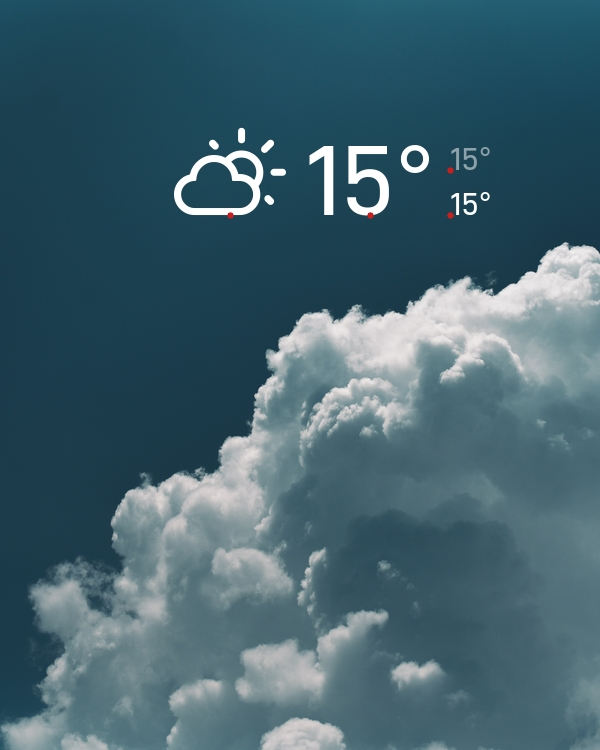
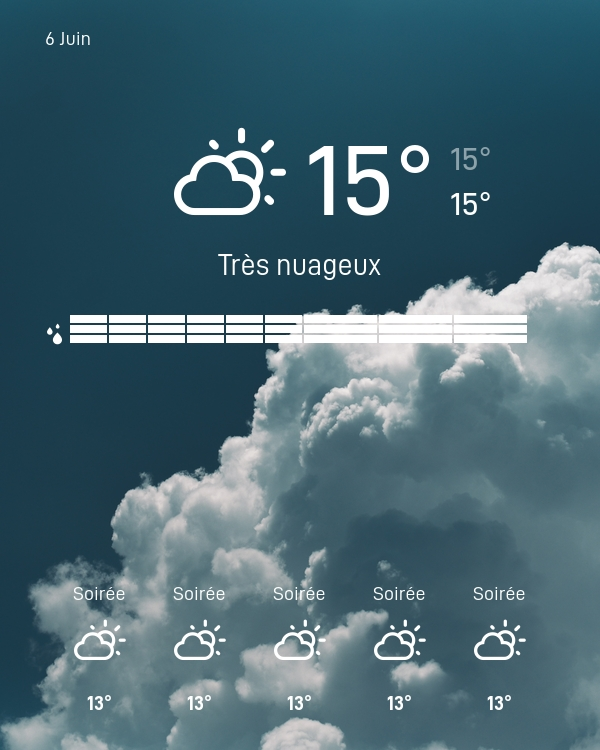
feat(Visual)

diff --git a/image.php b/image.php
@@ -2,7 +2,6 @@
 
 
 
-
 /* /////////////////////////////////
 
     LOAD BACKGROUND IMAGE 
@@ -72,10 +71,6 @@ function image_cover(Imagick $image, $width, $height) {
 
 
 
-
-
-
-
 /* /////////////////////////////////
 
     WRITE TEXT
@@ -86,15 +81,18 @@ function image_cover(Imagick $image, $width, $height) {
 
 $white = "rgba(255, 255, 255,1)";
 $whiteTransp = "rgba(255, 255, 255,0.5)";
-$fontDINNNext = "fonts/DINNextLTPro-Medium.ttf";
+$fontDINNNext = "fonts/D-DIN.ttf";
+$fontDINNNextBold = "fonts/D-DIN-Bold.ttf";
 $fontDINNExp = "fonts/D-DINExp.ttf";
 $fontWeatherIcon = "fonts/weathericons-regular-webfont.ttf";
 
 
-
-
 // Main temperature
 $im = WriteText($im, "15°", $white, 100, $fontDINNExp, 370, 215,\Imagick::ALIGN_CENTER);
+// Main temperature text
+$im = WriteText($im, "Très nuageux", $white, 30, $fontDINNNext, 300, 275,\Imagick::ALIGN_CENTER);
+
+
 // minTemp
 $im = WriteText($im, "15°", $whiteTransp, 32, $fontDINNExp, 450, 170,\Imagick::ALIGN_LEFT);
 // maxTemp
@@ -103,9 +101,80 @@ $im = WriteText($im, "15°", $white, 32, $fontDINNExp, 450, 215,\Imagick::ALIGN_
 // Main Weather
 $im = WriteText($im, "", $white, 80, $fontWeatherIcon, 230, 215,\Imagick::ALIGN_CENTER  );
 
+// Date
+$im = WriteText($im, "6 Juin", $white, 20, $fontDINNNext, 45, 45,\Imagick::ALIGN_LEFT);
 
 
 
+
+$position = 100;
+$width = 100;
+// Weathers du bas 
+for( $i = 0; $i < 5 ;$i++) {
+
+    //titre
+    $im = WriteText($im, "Soirée", $white, 20, $fontDINNNext, $position, 600,\Imagick::ALIGN_CENTER);
+    // icone
+    $im = WriteText($im, "", $white, 37, $fontWeatherIcon, $position, 660,\Imagick::ALIGN_CENTER);
+    //temp
+     $im = WriteText($im, "13°", $white, 20, $fontDINNNextBold, $position, 710,\Imagick::ALIGN_CENTER);
+    $position += $width; // width = 120
+}
+
+
+
+
+
+/* /////////////////////////////////
+
+    Rain Cast
+
+*/ /////////////////////////////////
+
+    // icone
+    $im = WriteText($im, "", $white, 36, $fontWeatherIcon, 55, 350,\Imagick::ALIGN_CENTER);
+
+$leftMargin = 70;
+$topPosition = 335;
+$width = 36;
+$height = 7;
+$margin = 3;
+
+for( $i = 0; $i < 6 ;$i++) {
+    $draw = new \ImagickDraw();
+    $draw->setFillColor($white);
+    $position = $leftMargin + $i * $width + ($i * $margin);
+    for($x = 0; $x <3; $x++) {
+        $newTopPosition =  $topPosition - ($x * $height ) - ( $x * $margin);
+        $draw->rectangle($position, $newTopPosition, $position + $width , $newTopPosition+$height);
+    }
+    $im->drawImage($draw);
+}
+
+
+
+$width = 72;
+$leftMargin = 304;
+for( $i = 0; $i < 3 ;$i++) {
+    $draw = new \ImagickDraw();
+    $draw->setFillColor($white);
+    $position = $leftMargin + $i * $width + ($i * $margin);
+    for($x = 0; $x <3; $x++) {
+        $newTopPosition =  $topPosition - ($x * $height ) - ( $x * $margin);
+        $draw->rectangle($position, $newTopPosition, $position + $width , $newTopPosition+$height);
+    }
+    $im->drawImage($draw);
+
+}
+
+
+
+
+// Text 
+for( $i = 0; $i < 4 ;$i++) {
+     $im = WriteText($im, "+10 min", $white, 20, $fontDINNNext, $position, 710,\Imagick::ALIGN_CENTER);
+
+}
 
 
 
@@ -125,8 +194,6 @@ $im->writeImageFile( $fileHandle);
  
 
 
-
-
 function WriteText($image, $text, $fillColor, $fontSize, $font,$x, $y, $align ) {
 
     $draw = new \ImagickDraw();
@@ -137,8 +204,9 @@ function WriteText($image, $text, $fillColor, $fontSize, $font,$x, $y, $align ) 
     $draw->setTextAlignment($align);
     $image->annotateimage($draw, $x, $y, 0, $text);
 
-    $draw->setFillColor("rgb(200, 32, 32)");
-    $draw->circle($x, $y, $x+2, $y+2);
+
+    //$draw->setFillColor("rgb(200, 32, 32)");
+    //$draw->circle($x, $y, $x+2, $y+2);
 
     $image->drawImage($draw);
 
@@ -162,9 +230,6 @@ function WriteText($image, $text, $fillColor, $fontSize, $font,$x, $y, $align ) 
 
 
 
-
-ini_set('display_errors', 0);
-
 $xmlfile = file_get_contents("weathericons.xml");
 $xml = simplexml_load_string($xmlfile,"SimpleXMLElement");
 $iconsList = array();
@@ -183,9 +248,6 @@ function GetIcon($list, $name) {
        return "";
     }
 }
-
-
-
 
 
 

diff --git a/index.php b/index.php
@@ -69,7 +69,7 @@ $raincast = file_get_contents("https://rpcache-aa.meteofrance.com/internet2018cl
 }
 
 //var_dump(json_decode($forecast));
-//var_dump(json_decode($raincast));
+var_dump(json_decode($forecast));
 
 $merged = array("forecast" => json_decode($forecast), "raincast" => json_decode($raincast) );
 
@@ -138,7 +138,6 @@ foreach ($JSONDATA["forecast"]->properties->forecast as $key => $value) {
     else if($icon == 'pluie verglacante') return 'sleet';
     else if($icon == 'ensoleille') return 'day-sunny';
     else return 'day-sunny';
-
   }
 
   function lowerAccent($_var) {
